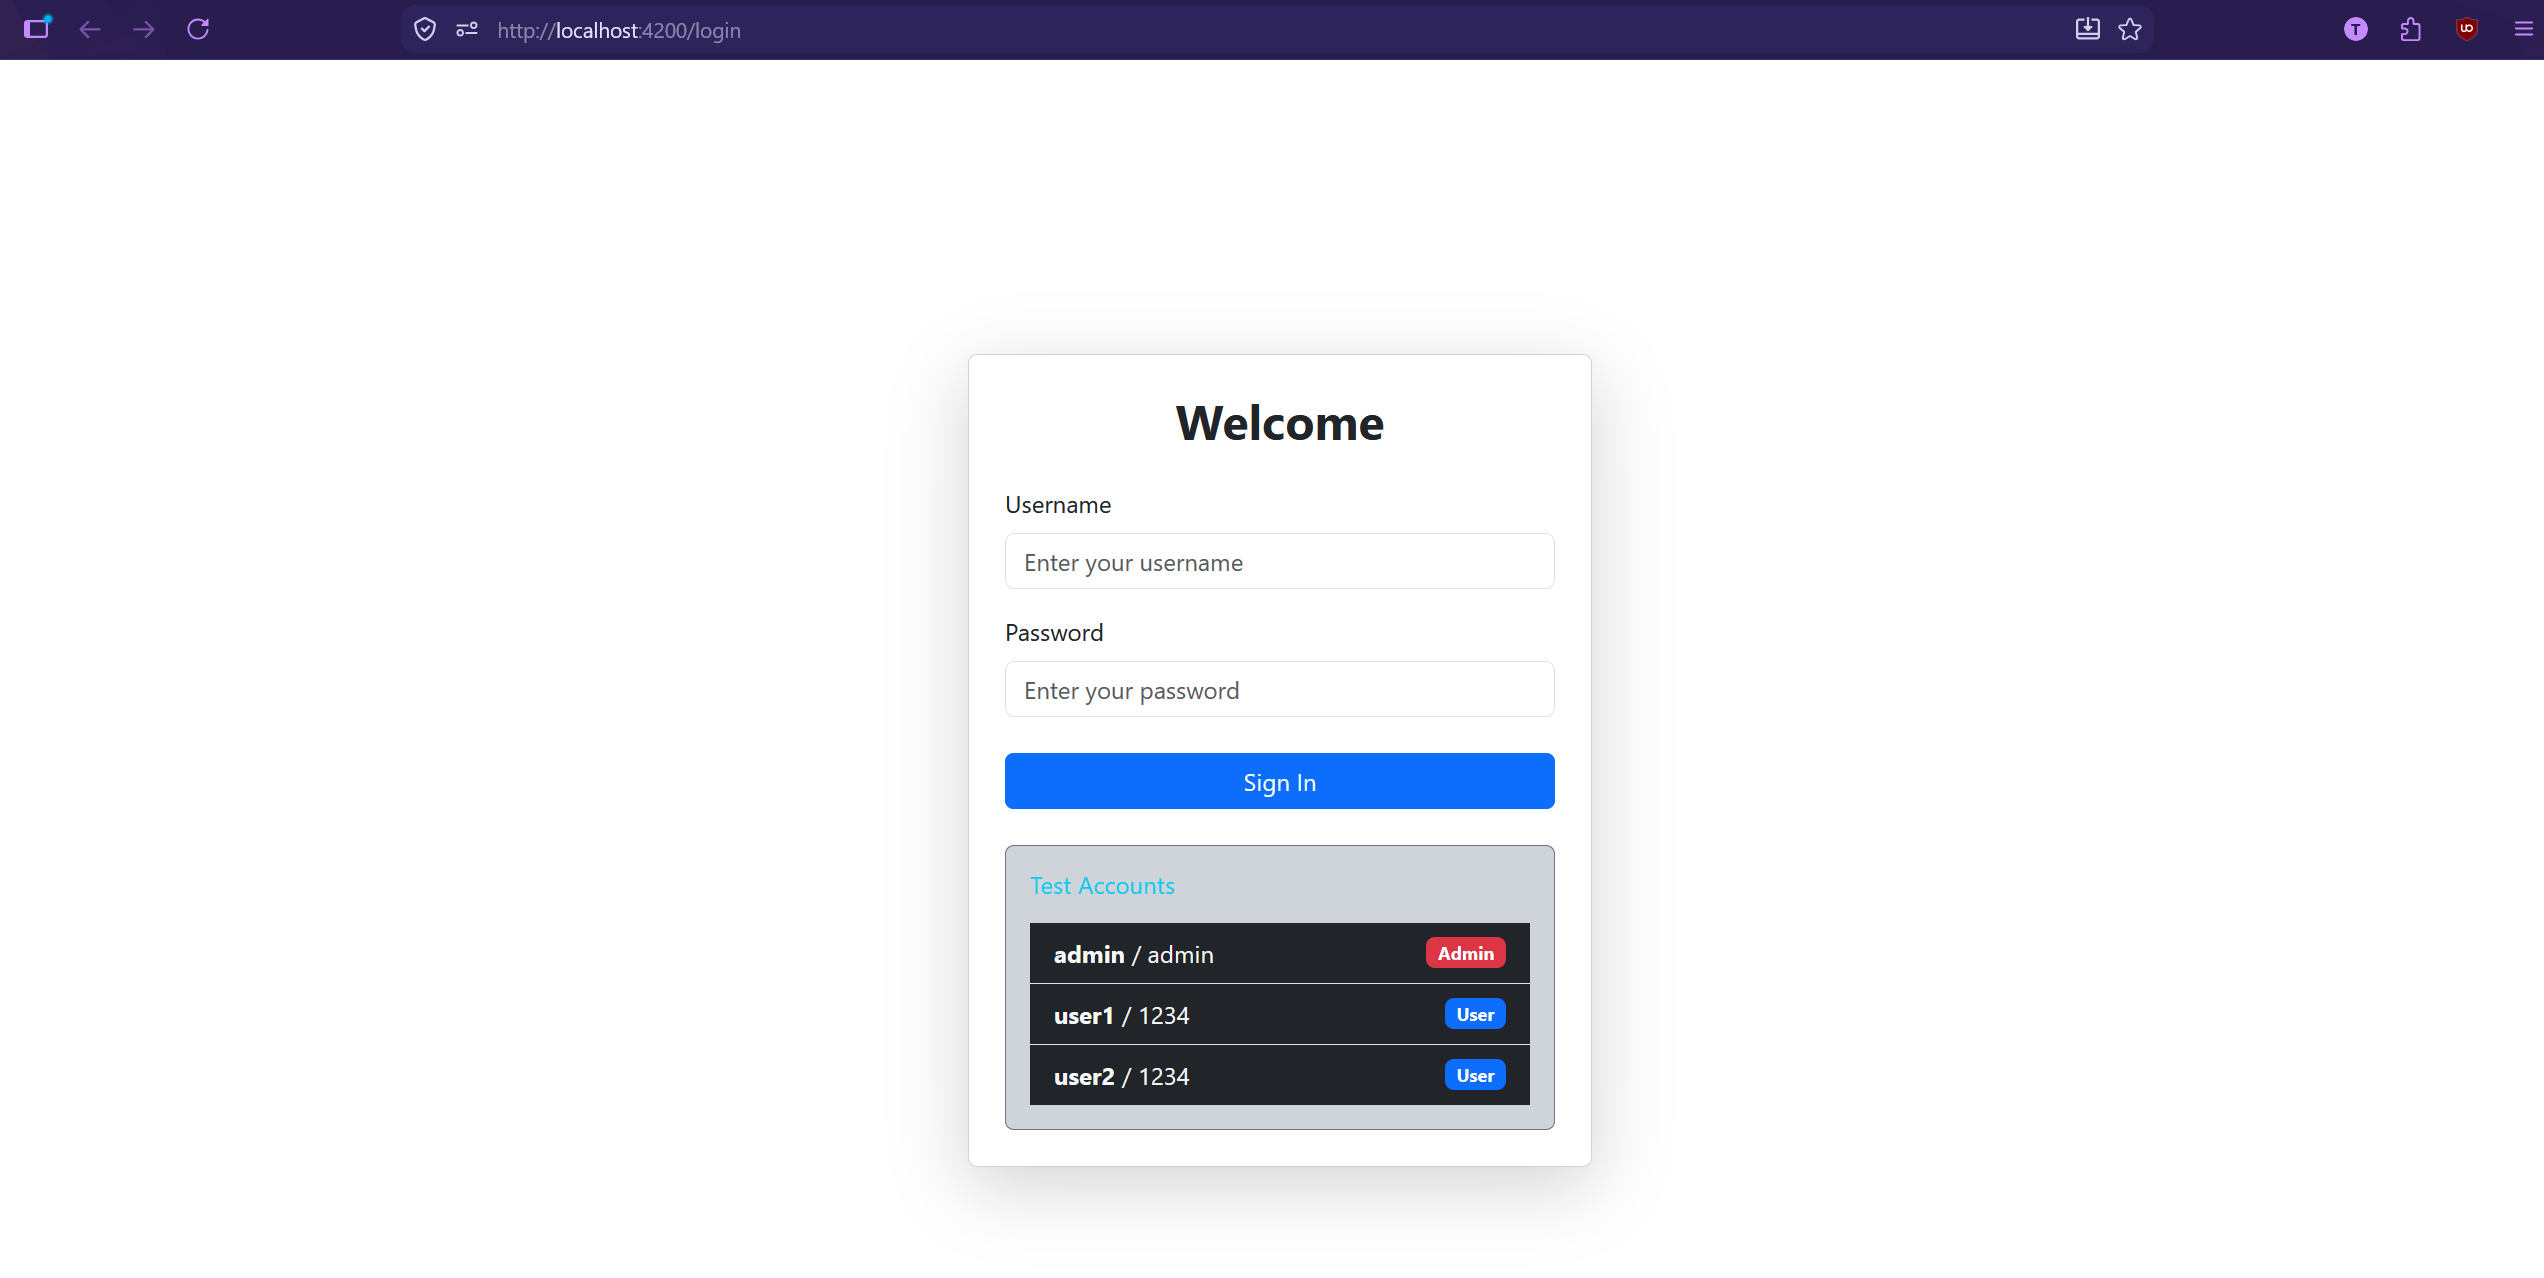
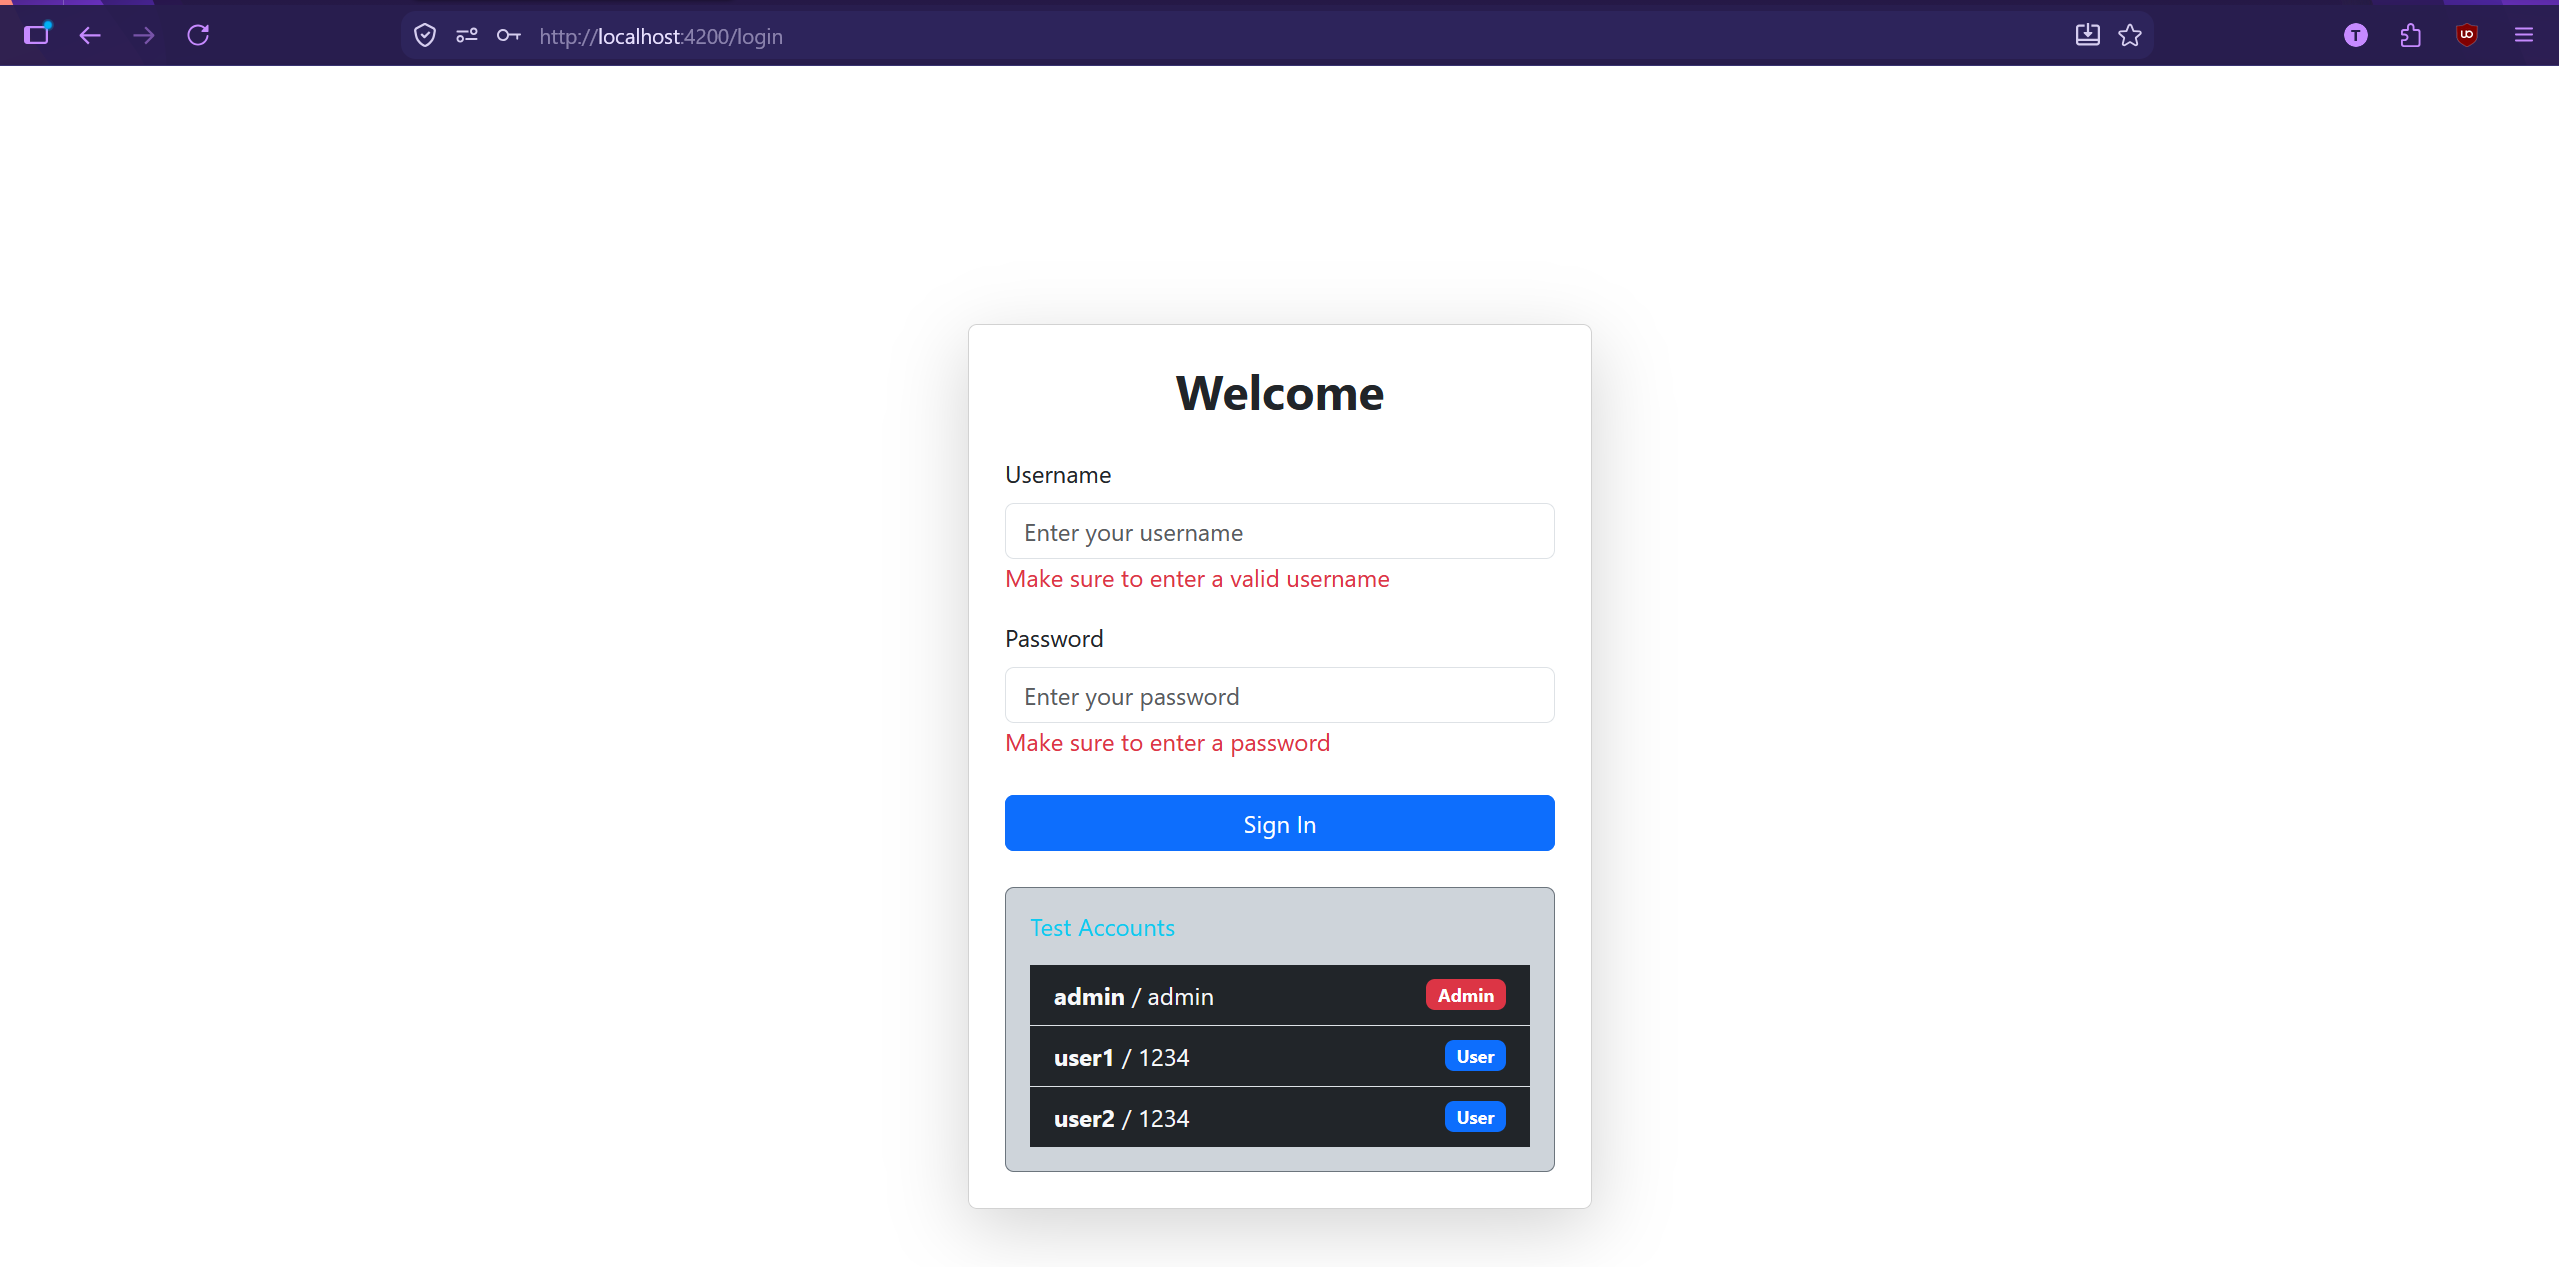
updated readme

diff --git a/Projet Spring Angular JWT Spring Security/README.md b/Projet Spring Angular JWT Spring Security/README.md
@@ -77,7 +77,13 @@ A full-stack banking management application built with Spring Boot, Angular, Spr
 #### Not authorized
 ![Not authorized](./screenshots/user/UserNotAuthorized.png)
 
-
+### Error handling
+#### Wrong path
+![wrong path](./screenshots/BrokenLinkError.png)
+#### Empty login
+![empty login](./screenshots/EmptyLogin.png)
+### Wrong login
+![wrong login](./screenshots/WrongLogin.png)
 
 ## License
 This project was developed for educational purposes and demonstrates the implementation of a secure banking management system using Spring Boot and Angular.
